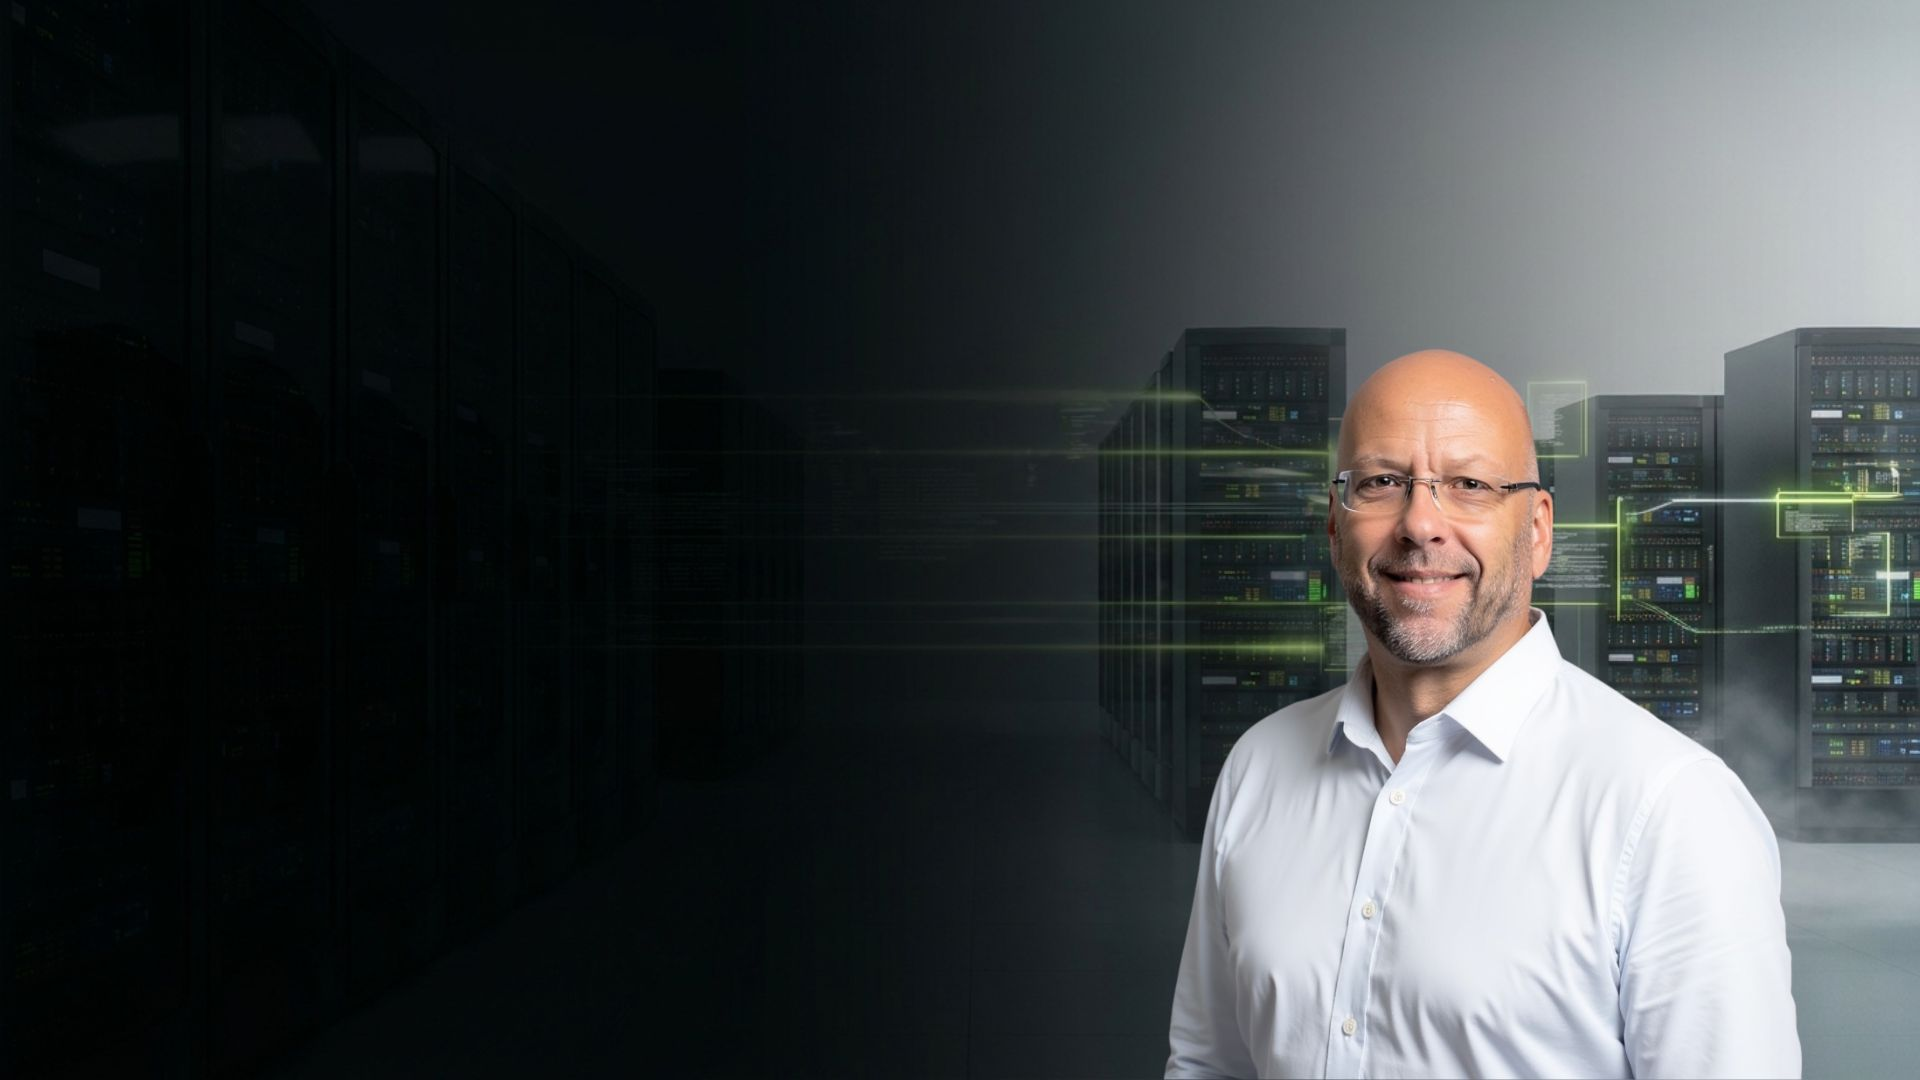
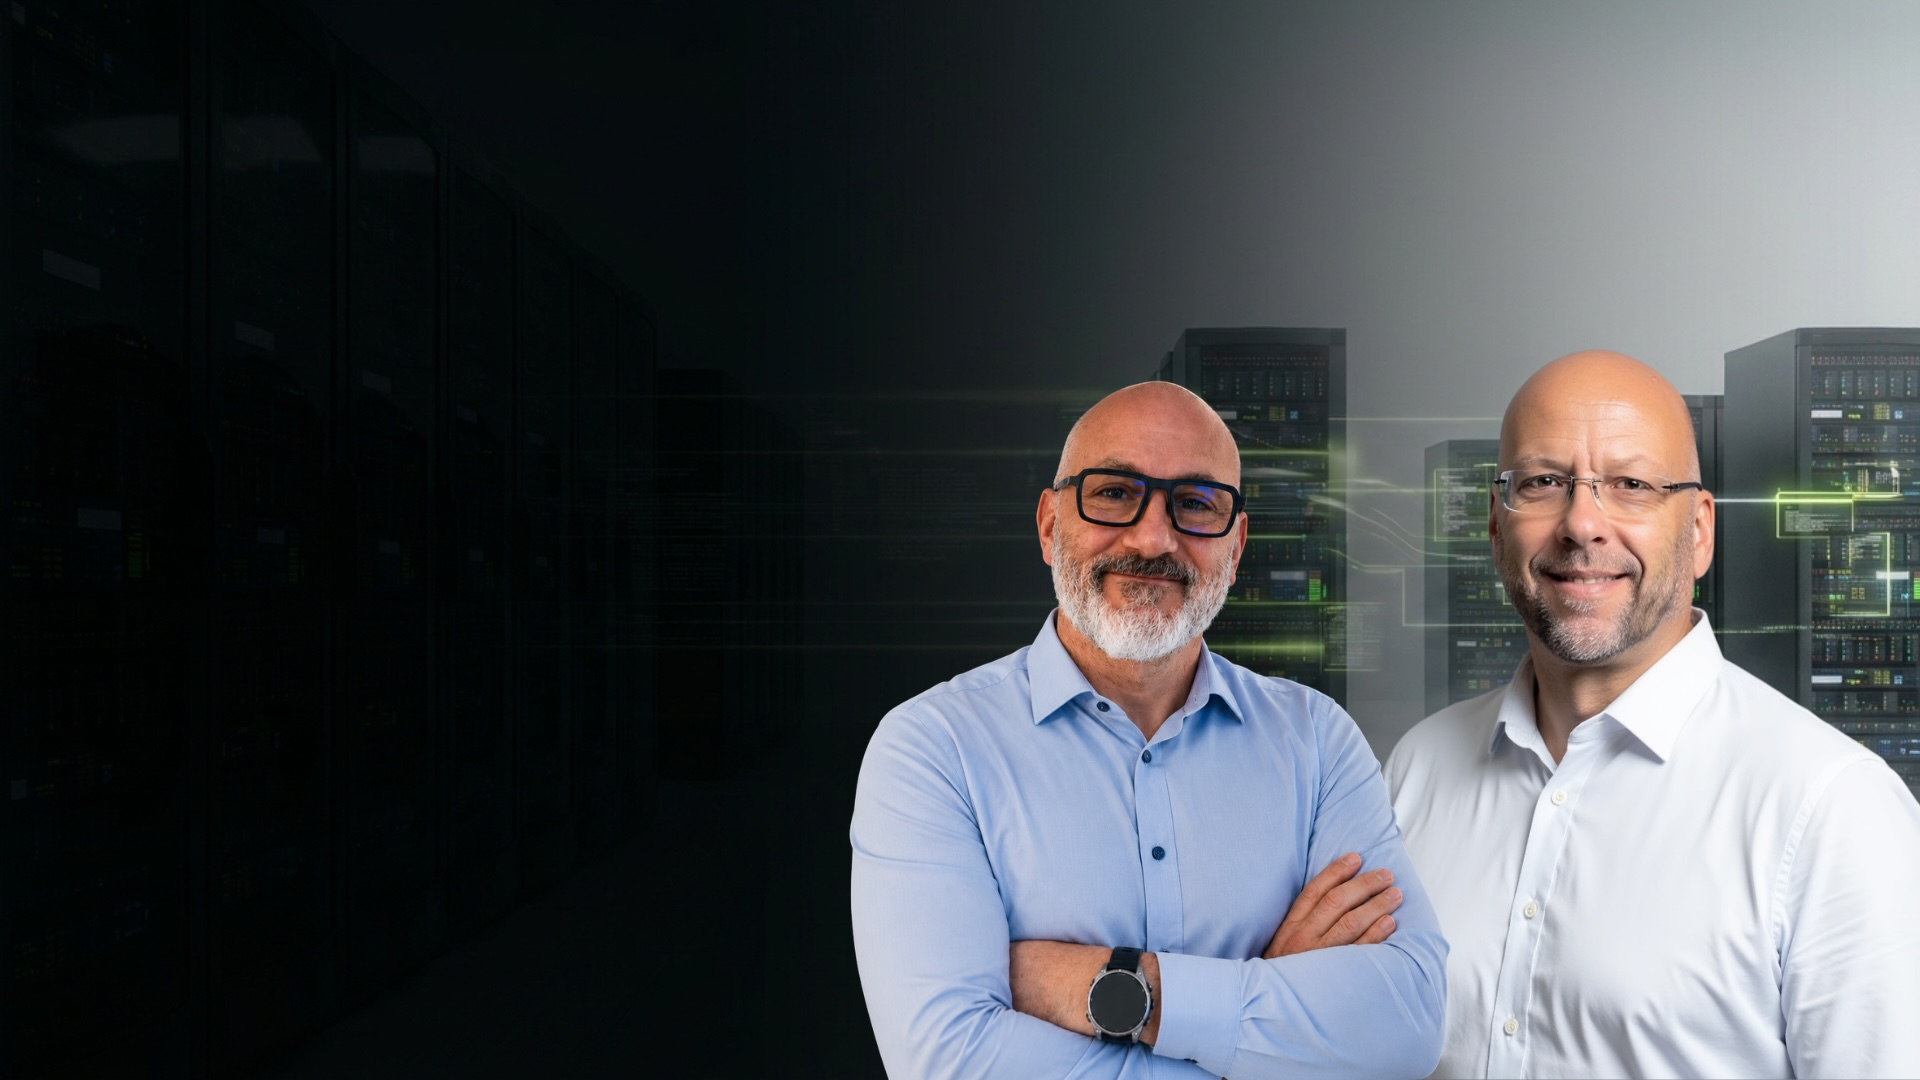
Add files via upload

Changed region(s): [[0.4375, 0.3056, 1.0, 1.0]]

diff --git a/index.html b/index.html
@@ -134,7 +134,7 @@ header.nav.scrolled{background:rgba(7,8,9,.82);backdrop-filter:blur(14px);border
 @keyframes gridmove{from{background-position:0 0}to{background-position:0 48px}}
 
 /* ---------- Hero ---------- */
-.hero{min-height:92vh;display:flex;align-items:center;padding:120px 0 90px;position:relative;overflow:hidden;background:linear-gradient(180deg,rgba(5,6,7,.92) 0%,rgba(5,6,7,.5) 9%,rgba(5,6,7,0) 26%,rgba(5,6,7,0) 56%,rgba(5,6,7,.4) 82%,rgba(5,6,7,.78) 100%),radial-gradient(105% 80% at 80% 46%,rgba(5,6,7,0) 36%,rgba(5,6,7,.1) 60%,rgba(5,6,7,.34) 100%),linear-gradient(90deg,rgba(6,7,8,.72) 0%,rgba(6,7,8,.42) 34%,rgba(6,7,8,.1) 52%,rgba(6,7,8,0) 66%),url('assets/bg.jpg') center right/cover no-repeat,#070809}
+.hero{min-height:92vh;display:flex;align-items:center;padding:120px 0 90px;position:relative;overflow:hidden;background:linear-gradient(180deg,rgba(5,6,7,.92) 0%,rgba(5,6,7,.5) 9%,rgba(5,6,7,0) 26%,rgba(5,6,7,0) 56%,rgba(5,6,7,.4) 82%,rgba(5,6,7,.78) 100%),radial-gradient(105% 80% at 80% 46%,rgba(5,6,7,0) 36%,rgba(5,6,7,.1) 60%,rgba(5,6,7,.34) 100%),linear-gradient(90deg,rgba(6,7,8,.72) 0%,rgba(6,7,8,.42) 34%,rgba(6,7,8,.1) 52%,rgba(6,7,8,0) 66%),url('assets/bg.jpg?v=2') center right/cover no-repeat,#070809}
 .hero .grid-floor,.hero .glowball{display:none}
 .hero .glowball{position:absolute;top:18%;right:-6%;width:540px;height:540px;border-radius:50%;background:radial-gradient(circle,rgba(154,205,51,.16),transparent 65%);filter:blur(20px);z-index:0;animation:pulse 7s ease-in-out infinite}
 .hero .glowball.two{top:auto;bottom:-10%;left:-10%;right:auto;width:420px;height:420px;background:radial-gradient(circle,rgba(154,205,51,.10),transparent 65%);animation-delay:2s}
@@ -449,6 +449,7 @@ a:focus-visible,button:focus-visible,input:focus-visible,textarea:focus-visible{
 #team .person.rev .p-body{order:-1}
 #team .p-media{position:relative;aspect-ratio:4/3;border-radius:16px;overflow:hidden;border:1px solid rgba(154,205,51,.28);background:linear-gradient(160deg,#161b24,#0d1015);display:flex;align-items:center;justify-content:center;box-shadow:0 26px 64px -34px rgba(0,0,0,.55)}
 #team .p-media img{width:100%;height:100%;object-fit:cover;display:block}
+#team .person.rev .p-media img{object-position:center 16%}
 #team .p-media .ph{display:flex;flex-direction:column;align-items:center;gap:12px;color:#8f978a;font-family:'IBM Plex Mono',ui-monospace,monospace;font-size:11px;letter-spacing:.14em;text-transform:uppercase;text-align:center;padding:22px}
 #team .p-media .ph .ico{width:54px;height:54px;border:1.5px solid rgba(154,205,51,.5);border-radius:50%;display:flex;align-items:center;justify-content:center;color:#9ACD33}
 #team .p-media .ph small{color:#6c7268;font-size:10px;letter-spacing:.1em;text-transform:none}
@@ -734,14 +735,13 @@ a:focus-visible,button:focus-visible,input:focus-visible,textarea:focus-visible{
       <div class="person rev reveal d1">
         <div class="p-media">
           <span class="corner tl"></span><span class="corner br"></span>
-          <!-- BILD: Porträt Antonio De Luca einsetzen (<img src="antonio.jpg" alt="Antonio De Luca">) -->
-          <div class="ph"><span class="ico"><svg viewBox="0 0 24 24" fill="none" stroke="currentColor" stroke-width="1.5"><circle cx="12" cy="8.5" r="4"/><path d="M4.5 20c0-4 3.4-6.8 7.5-6.8S19.5 16 19.5 20"/></svg></span>Bild folgt<small>Antonio De Luca</small></div>
+          <img src="assets/antonio.jpg" alt="Antonio De Luca" loading="lazy" />
         </div>
         <div class="p-body">
           <div class="p-id"><i></i>// PROFIL_02 · Verfügbar</div>
           <h3>Antonio De Luca</h3>
-          <div class="pr">Betrieb · Verfügbarkeit · Umsetzung · MedTech</div>
-          <p>Operative IT-Führung in regulierten, hochverfügbaren Umgebungen, als früherer Leiter Datacenter bei Belimed. Kennt validierte Systeme, lange Lifecycle-Zyklen und die Realität im Maschinenraum von MedTech und Pharma.</p>
+          <div class="pr">Betrieb · Hochverfügbarkeit · Sicherheitskritische Systeme · Aviatik</div>
+          <p>Strategische und operative IT-Führung in der Aviatik. 18 Jahre Erfahrung als IT-Leiter bei der Lufthansa (Schwerpunkt: Navigationskarten-Herstellung). Spezialist für hochverfügbare, sicherheitskritische Systeme, komplexe IT-Infrastrukturen und die besonderen regulatorischen Anforderungen in der Luftfahrt.</p>
         </div>
       </div>
     </div>